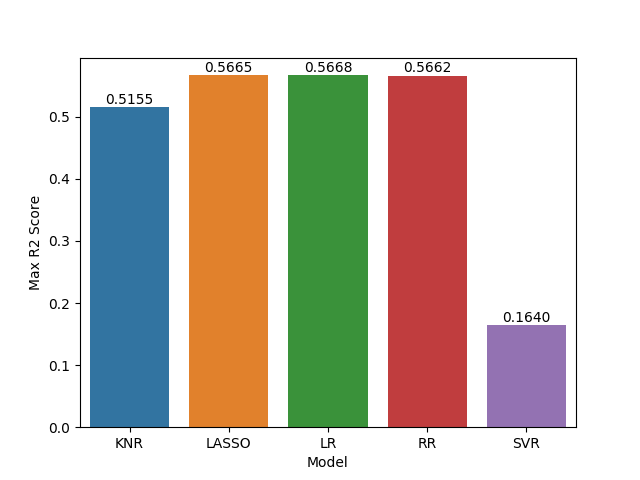
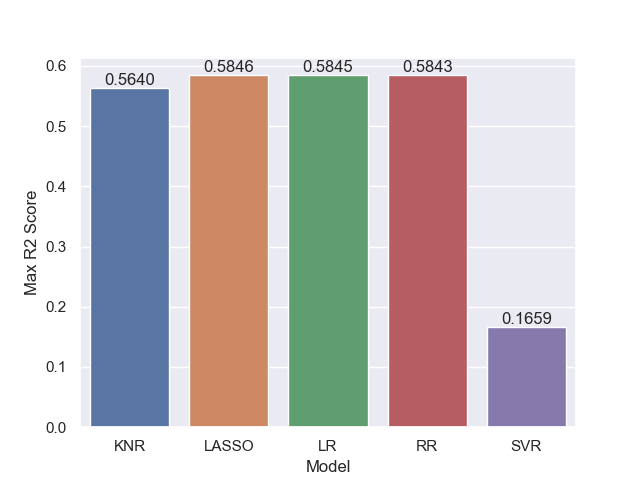
Optimizimg regressors models

diff --git a/project.py b/project.py
@@ -24,6 +24,7 @@ from sklearn.model_selection import train_test_split
 # https://towardsdatascience.com/a-beginners-guide-to-linear-regression-in-python-with-scikit-learn-83a8f7ae2b4f
 # https://towardsdatascience.com/machine-learning-workflow-on-diabetes-data-part-01-573864fcc6b8
 # https://realpython.com/pandas-groupby/
+# https://towardsdatascience.com/feature-selection-with-pandas-e3690ad8504b
 
 # 1 - learn about our data by printing some stats
 # 2 - create a heatmap to visualize correlation between features
@@ -107,6 +108,7 @@ def process_optimized_knr(data):
     min_mean_sqr_error = 0
     max_r2_score = 0
     opt_neighbor = 0
+    global optimized_neighbor
     while neighbor < max_number_of_neighbors:
         model = KNeighborsRegressor()
         model.n_neighbors = neighbor
@@ -129,6 +131,7 @@ def process_optimized_lasso(data):
     max_alpha = 20
     min_mean_sqr_error = 10000000
     max_r2_score = 0
+    global optimized_lasso_alpha
     while c_alpha <= max_alpha:
         model = Lasso()
         model.alpha = c_alpha
@@ -151,6 +154,7 @@ def process_optimized_ridge(data):
     max_alpha = 20
     min_mean_sqr_error = 10000000
     max_r2_score = 0
+    global optimized_bridge_alpha
     while c_alpha <= max_alpha:
         model = Ridge()
         model.alpha = c_alpha
@@ -170,12 +174,21 @@ def process_optimized_ridge(data):
 
 diabetes = load_diabetes()
 columns_names = diabetes.feature_names
-X = diabetes.data
-y = diabetes.target
-df = pd.DataFrame(data=diabetes['data'], columns=diabetes['feature_names'])
+# X = diabetes.data
+# y = diabetes.target
+# print(diabetes['target'])
+
+df = pd.DataFrame(diabetes.data, columns=diabetes.feature_names)
+df["Y"] = diabetes.target
+X = df.drop("Y", 1)   #Feature Matrix
+y = df["Y"]          #Target Variable
+df.head()
+
+
 
 path = 'plots/'
-# draw_heat_map(df, path)
+cor = df.corr()
+draw_heat_map(df, path)
 
 max_number_of_neighbors = 50
 max_number_of_iterations = 20
@@ -218,22 +231,24 @@ for item in result:
         index = index + 1
 
 results_df = pd.DataFrame(data=results_data, columns=['Name', 'Mean Sqr Err', 'R2 Score'])
-
 r2_score_by_name = results_df.groupby('Name')
-
 list_mean_model_r2_score = list()
+
 for key, value in r2_score_by_name:
     list_mean_model_r2_score.append([key, value['R2 Score'].mean()])
 
 df_mean_model_r2_score = pd.DataFrame(data=list_mean_model_r2_score, columns=['Name', 'R2 Score'])
 axis = sns.barplot(x='Name', y='R2 Score', data=df_mean_model_r2_score)
 axis.set(xlabel='Model', ylabel='Average R2 Score')
+
 for p in axis.patches:
     height = p.get_height()
     axis.text(p.get_x() + p.get_width() / 2, height + 0.005, '{:1.4f}'.format(height), ha="center")
+
 plt.savefig(f'{path}/diabetes_data_average_r2_score_per_model.png')
 plt.close()
 list_max_model_r2_score = list()
+
 for key, value in r2_score_by_name:
     list_max_model_r2_score.append([key, value['R2 Score'].max()])
 
@@ -244,5 +259,152 @@ for p in axis.patches:
     height = p.get_height()
     axis.text(p.get_x() + p.get_width() / 2, height + 0.005, '{:1.4f}'.format(height), ha="center")
 plt.savefig(f'{path}/diabetes_data_max_r2_score_per_model.png')
+plt.close()
 
+# Features Selection based on their correlation with Variable Y
+
+# Correlation with output variable
+cor_target = abs(cor["Y"])
+# Selecting highly correlated features
+relevant_features = cor_target[cor_target > 0.4]
+print(relevant_features)
+
+# Output
+# bmi    0.586450
+# bp     0.441484
+# s4     0.430453
+# s5     0.565883
+# Y      1.000000
+
+# Potential candidates bmi, bp, s4 & s5
+# We will now check how those features relate to each other to eliminate those which are highly correlated.
+print(df[["bmi", "bp"]].corr())
+print(df[["bmi", "s4"]].corr())
+print(df[["bmi", "s5"]].corr())
+print(df[["bp", "s4"]].corr())
+print(df[["bp", "s5"]].corr())
+print(df[["s4", "s5"]].corr())
+
+# Output
+#           bmi        bp
+# bmi  1.000000  0.395415
+# bp   0.395415  1.000000
+#           bmi        s4
+# bmi  1.000000  0.413807
+# s4   0.413807  1.000000
+#           bmi        s5
+# bmi  1.000000  0.446159
+# s5   0.446159  1.000000
+#           bp        s4
+# bp  1.000000  0.257653
+# s4  0.257653  1.000000
+#           bp        s5
+# bp  1.000000  0.393478
+# s5  0.393478  1.000000
+#           s4        s5
+# s4  1.000000  0.617857
+# s5  0.617857  1.000000
+
+# Analysis S4 & S5 are highly correlated and since S5 is highly correlated to Y, we will drop S4 and Keep S5
+
+
+def process_lr_step2(data):
+    model = LinearRegression()
+    model.fit(data["X_train"], data["y_train"])
+    predicted_values = model.predict(data["X_test"])
+    mean_sqr_error = mean_squared_error(data["y_test"], predicted_values)
+    r2_score_calc = r2_score(data["y_test"], predicted_values)
+    return {"name": "LR", "data": {"coefficients": model.coef_, "intercept": model.intercept_},
+            "mean_sqr_err": mean_sqr_error, "r2_score": r2_score_calc}
+
+
+def process_optimized_ridge_step2(data):
+    model = Ridge()
+    model.alpha = optimized_bridge_alpha
+    model.fit(data["X_train"], data["y_train"])
+    predicted_values = model.predict(data["X_test"])
+    mean_sqr_error = mean_squared_error(data["y_test"], predicted_values)
+    r2_score_calc = r2_score(data["y_test"], predicted_values)
+    dict_result = {"name": "RR", 'data': {"alpha": optimized_bridge_alpha}, 'mean_sqr_err': mean_sqr_error,
+                            'r2_score': r2_score_calc}
+    return dict_result
+
+
+def process_optimized_lasso_step2(data):
+    model = Lasso()
+    model.alpha = optimized_lasso_alpha
+    model.fit(data["X_train"], data["y_train"])
+    predicted_values = model.predict(data["X_test"])
+    mean_sqr_error = mean_squared_error(data["y_test"], predicted_values)
+    r2_score_calc = r2_score(data["y_test"], predicted_values)
+    return {"name": "LASSO", "data": {"alpha": optimized_lasso_alpha}, "mean_sqr_err": mean_sqr_error,
+                    "r2_score": r2_score_calc}
+
+
+# df = pd.DataFrame(diabetes.data, columns=diabetes.feature_names)
+# df["Y"] = diabetes.target
+X = df.drop(["s4", "Y"], axis=1)   #Feature Matrix
+y = df["Y"]          #Target Variable
+df.head()
+models = list()
+result_step2 = list()
+models.append(('LR', LinearRegression()))
+models.append(('RR', Ridge(alpha=optimized_bridge_alpha)))
+models.append(('LS', Lasso(alpha=optimized_lasso_alpha)))
+
+# Run regressors models through iterations to collect data
+for i in range(max_number_of_iterations + 1):
+    X_train, X_test, y_train, y_test = train_test_split(X, y, test_size=0.35)
+    data_dict = {
+        "models": models,
+        "X_train": X_train,
+        "X_test": X_test,
+        "y_train": y_train,
+        "y_test": y_test
+    }
+    sub_result = list()
+    sub_result.append(process_lr_step2(data_dict))
+    sub_result.append(process_optimized_lasso_step2(data_dict))
+    sub_result.append(process_optimized_ridge_step2(data_dict))
+    result_step2.append(sub_result)
+
+results_data_step2 = list()
+
+for item in result_step2:
+    index = 0
+    while index < len(item):
+        temp_list = [item[index]['name'], item[index]['mean_sqr_err'], item[index]['r2_score']]
+        results_data_step2.append(temp_list)
+        index = index + 1
+
+results_df = pd.DataFrame(data=results_data_step2, columns=['Name', 'Mean Sqr Err', 'R2 Score'])
+r2_score_by_name_step2 = results_df.groupby('Name')
+list_mean_model_r2_score = list()
+
+for key, value in r2_score_by_name_step2:
+    list_mean_model_r2_score.append([key, value['R2 Score'].mean()])
+
+df_mean_model_r2_score = pd.DataFrame(data=list_mean_model_r2_score, columns=['Name', 'R2 Score'])
+axis = sns.barplot(x='Name', y='R2 Score', data=df_mean_model_r2_score)
+axis.set(xlabel='Model', ylabel='Average R2 Score')
+
+for p in axis.patches:
+    height = p.get_height()
+    axis.text(p.get_x() + p.get_width() / 2, height + 0.005, '{:1.4f}'.format(height), ha="center")
+
+plt.savefig(f'{path}/diabetes_data_average_r2_score_per_model_optimized.png')
+plt.close()
+
+list_max_model_r2_score = list()
+
+for key, value in r2_score_by_name_step2:
+    list_max_model_r2_score.append([key, value['R2 Score'].max()])
+
+df_max_model_r2_score = pd.DataFrame(data=list_max_model_r2_score, columns=['Name', 'R2 Score'])
+axis = sns.barplot(x='Name', y='R2 Score', data=df_max_model_r2_score)
+axis.set(xlabel='Model', ylabel='Max R2 Score')
+for p in axis.patches:
+    height = p.get_height()
+    axis.text(p.get_x() + p.get_width() / 2, height + 0.005, '{:1.4f}'.format(height), ha="center")
+plt.savefig(f'{path}/diabetes_data_max_r2_score_per_model_optimized.png')
 plt.close()
